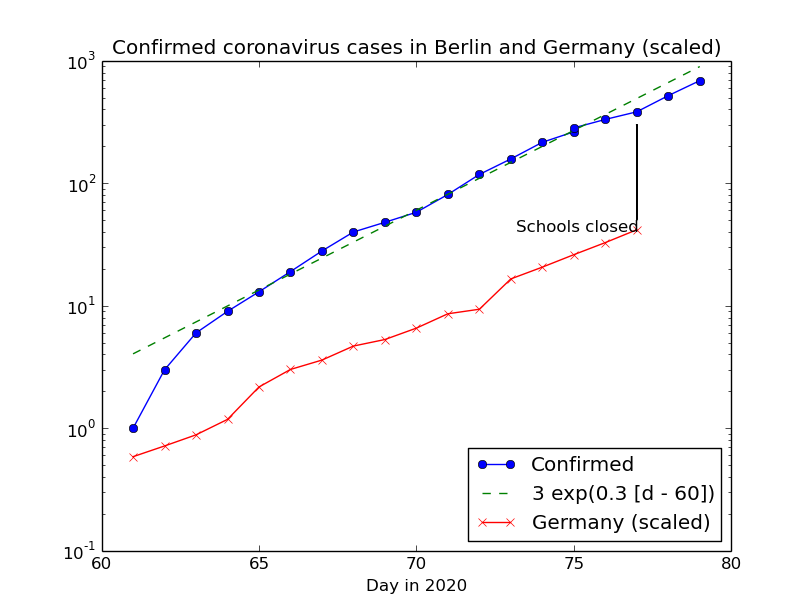
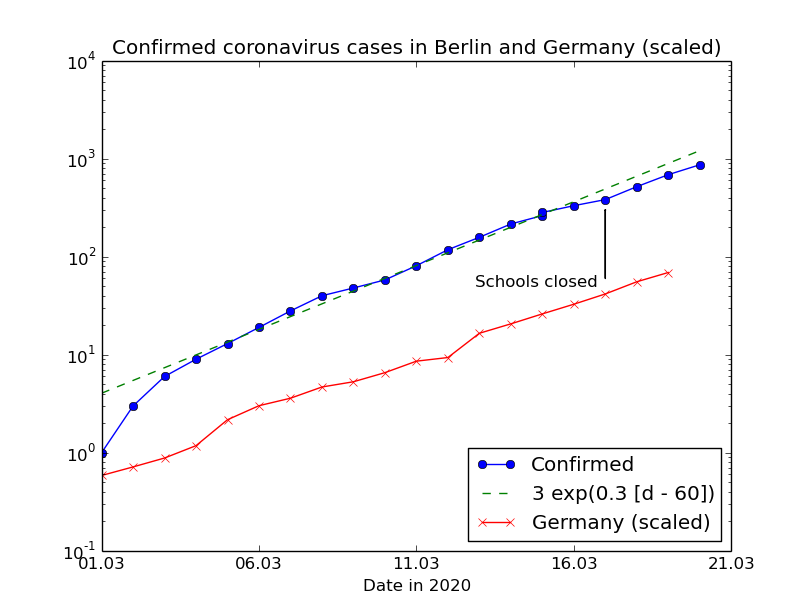
Add Germany count, scaled to match population
- Also, dates on x-axis

diff --git a/plot.py b/plot.py
@@ -1,13 +1,16 @@
 #!/usr/bin/env python3
 
+import datetime
 import numpy as np
+import matplotlib
 import matplotlib.pyplot as plt
 
 
-def fetch():
+def fetch(fname):
     dates = []
+    doys = []
     values = []
-    with open('virus-berlin-2020.dat') as fd:
+    with open(fname) as fd:
         for line in fd.readlines():
             if line.strip().startswith('#'):
                 continue
@@ -15,26 +18,42 @@ def fetch():
             if len(words) < 2:
                 continue
             try:
-                dates.append(int(words[1]))
+                dates.append(words[0])
+                doys.append(int(words[1]))
                 values.append(int(words[2]))
             except IndexError:
                 print('FAILED:', line)
                 continue
-    return np.array(dates), np.array(values)
+    return np.array(dates), np.array(doys), np.array(values)
 
 
-doys, values = fetch()
+datestrs, doys, values = fetch('virus-berlin-2020.dat')
+datetimes = []
+for f in range(len(datestrs)):
+    datetimes.append(datetime.datetime.strptime(datestrs[f], '%Y-%m-%d'))
+
+dates = matplotlib.dates.date2num(datetimes)
 A = 3.0
 r = 0.3
 z = A * np.exp(r * (doys - 60))
 
 fig = plt.figure()
-plt.semilogy(doys, values, marker='o', label='Confirmed')
-plt.semilogy(doys, z, linestyle="--", label='%g exp(%g [d - 60])' % (A, r))
-plt.arrow(77, 30, 0, 270, '->')
-plt.text(77, 20, 'School closure', horizontalalignment='right')
+myFmt = matplotlib.dates.DateFormatter('%d.%m')
+fig.gca().xaxis.set_major_formatter(myFmt)
 
-plt.title('Coronavirus cases in Berlin')
+plt.semilogy(doys-1, values, marker='o', label='Confirmed')
+plt.semilogy(doys-1, z, linestyle="--", label='%g exp(%g [d - 60])' % (A, r))
+plt.arrow(77-1, 60, 0, 240)
+plt.text(76.7-1, 50, 'Schools closed', horizontalalignment='right')
+
+bpop = 3748148    # Wikipedia, 31 Dec 2018
+gpop = 831490300  # Wikipedia, 30 Sept 2019
+gscale = bpop / gpop
+
+gdates, gdoys, gvalues = fetch('virus-germany-2020.dat')
+plt.semilogy(gdoys-1, gvalues * gscale, marker='x', label='Germany (scaled)')
+
+plt.title('Confirmed coronavirus cases in Berlin and Germany (scaled)')
 plt.legend(loc='lower right')
-plt.xlabel('Day in 2020')
+plt.xlabel('Date in 2020')
 plt.show()
